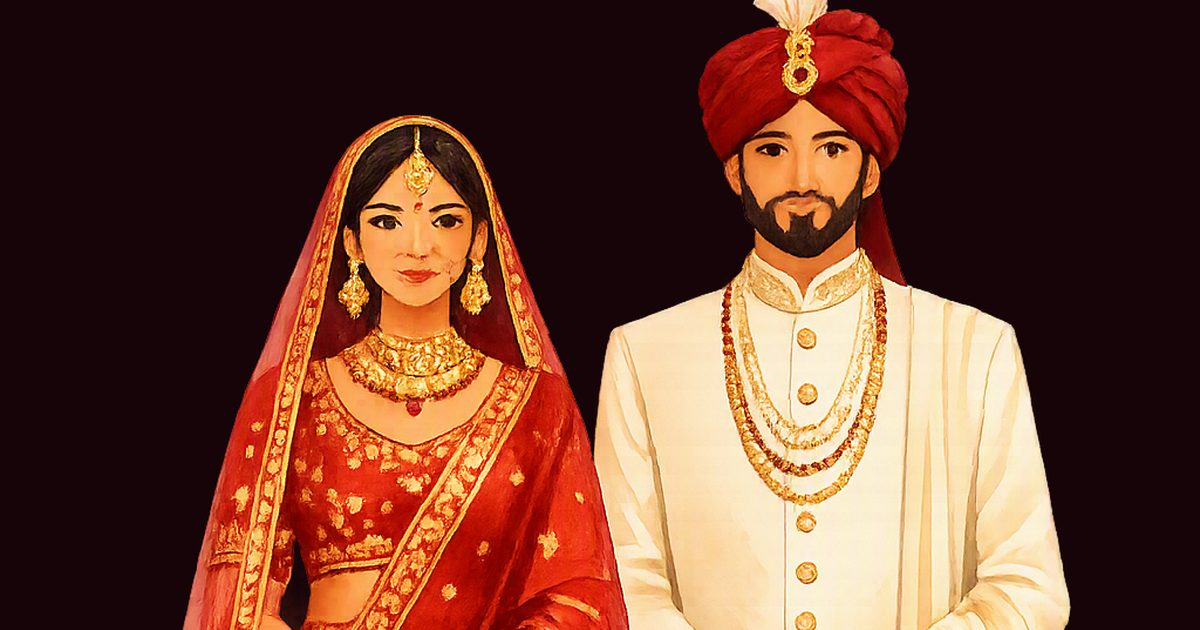
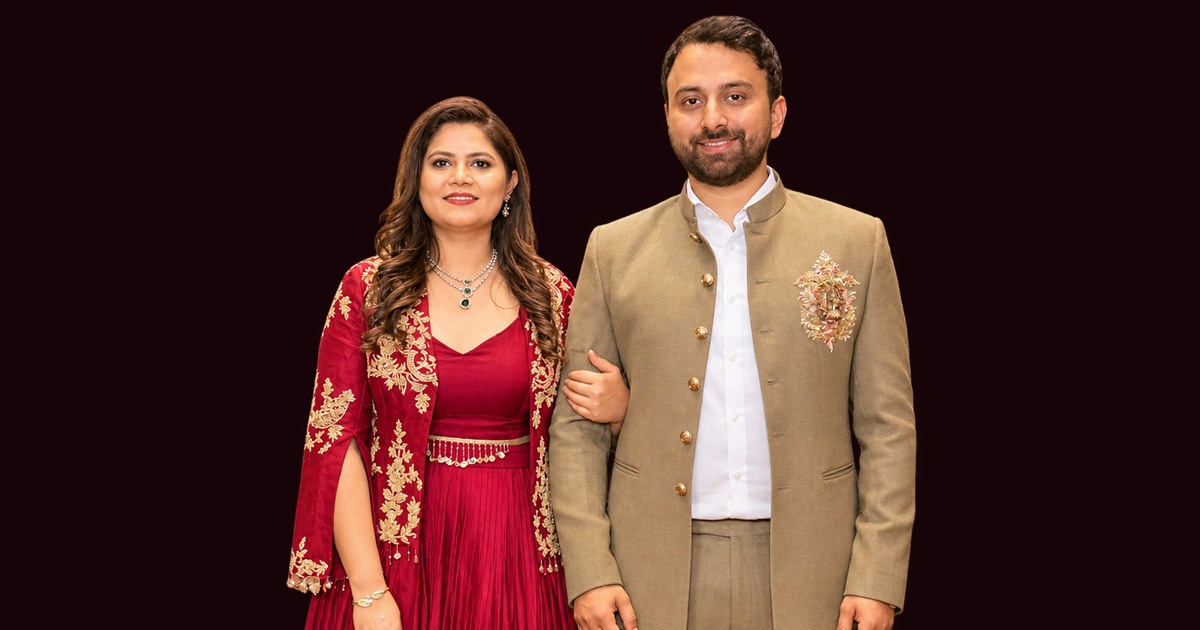
Update Madhav & Madhu real couple OG thumbnail and Nitin & Suman Nanhera/Delhi details

diff --git a/invitations/nitin-weds-suman/index.html b/invitations/nitin-weds-suman/index.html
@@ -242,7 +242,7 @@
               Nitin<span class="script mx-2 block text-2xl text-primary">&amp;</span>Suman
             </h1>
             <p class="mt-4 text-[0.66rem] uppercase tracking-airy text-muted-foreground animate-ink" style="animation-delay:1s">Saturday, 5 December 2026</p>
-            <p class="mt-2 text-[0.66rem] uppercase tracking-airy text-muted-foreground animate-ink" style="animation-delay:1.15s">Rangia Mandi · Ambala Cantt</p>
+            <p class="mt-2 text-[0.66rem] uppercase tracking-airy text-muted-foreground animate-ink" style="animation-delay:1.15s">Delhi</p>
           </div>
         </header>
 
@@ -387,7 +387,7 @@
                   </div>
                 </div>
                 <div class="mt-4 flex items-center justify-between border-t border-primary/15 pt-3">
-                  <span class="text-xs text-foreground/80">#436/7, Nai Abadi, Rangia Mandi</span>
+                  <span class="text-xs text-foreground/80">#436/7, Nai Abadi, Nanhera</span>
                   <span class="text-xs font-semibold text-primary bg-primary/10 px-2.5 py-0.5 rounded-full">7:00 PM</span>
                 </div>
                 <p class="mt-2 text-xs italic text-muted-foreground">An enchanting evening of dholak, folk songs and joyous dances.</p>
@@ -407,7 +407,7 @@
                   </div>
                 </div>
                 <div class="mt-4 flex items-center justify-between border-t border-primary/15 pt-3">
-                  <span class="text-xs text-foreground/80">#436/7, Nai Abadi, Rangia Mandi</span>
+                  <span class="text-xs text-foreground/80">#436/7, Nai Abadi, Nanhera</span>
                   <span class="text-xs font-semibold text-primary bg-primary/10 px-2.5 py-0.5 rounded-full">10:00 AM</span>
                 </div>
                 <p class="mt-2 text-xs italic text-muted-foreground">Sacred morning Vedic rituals and traditional blessings.</p>
@@ -427,7 +427,7 @@
                   </div>
                 </div>
                 <div class="mt-4 flex items-center justify-between border-t border-primary/15 pt-3">
-                  <span class="text-xs text-foreground/80">#436/7, Nai Abadi, Rangia Mandi</span>
+                  <span class="text-xs text-foreground/80">#436/7, Nai Abadi, Nanhera</span>
                   <span class="text-xs font-semibold text-primary bg-primary/10 px-2.5 py-0.5 rounded-full">7:00 PM</span>
                 </div>
                 <p class="mt-2 text-xs italic text-muted-foreground">Ceremonial tying of the groom's sehra with family pride and love.</p>
@@ -467,7 +467,7 @@
                   </div>
                 </div>
                 <div class="mt-4 flex items-center justify-between border-t border-primary/15 pt-3">
-                  <span class="text-xs text-foreground/80">#436/7, Nai Abadi, Rangia Mandi</span>
+                  <span class="text-xs text-foreground/80">#436/7, Nai Abadi, Nanhera</span>
                   <span class="text-xs font-bold text-primary bg-primary/15 px-3 py-1 rounded-full">8:00 PM</span>
                 </div>
                 <p class="mt-2 text-xs italic text-muted-foreground">A lavish dinner feast welcoming the newlywed couple.</p>
@@ -529,11 +529,11 @@
             <img src="assets/venue-map-final.png" alt="Venue Map" loading="lazy" width="1448" height="1086" class="w-full h-auto object-cover"/>
             <div class="p-5 text-center">
               <h3 class="font-display text-2xl font-medium">#436/7, Nai Abadi</h3>
-              <p class="mt-1 text-sm text-foreground/85 font-medium">Rangia Mandi, Ambala Cantt, Haryana</p>
+              <p class="mt-1 text-sm text-foreground/85 font-medium">Nanhera, Ambala Cantt, Haryana</p>
               <p class="mt-2 text-xs text-muted-foreground">Residence of Smt. Sunita Devi &amp; Sh. Rakesh Kumar</p>
               
               <div class="mt-4 flex flex-col sm:flex-row gap-2 justify-center">
-                <a href="https://www.google.com/maps/search/?api=1&amp;query=Nai+Abadi+Rangia+Mandi+Ambala+Cantt" target="_blank" rel="noreferrer" class="press flex min-h-[46px] items-center justify-center rounded-sm bg-primary px-5 text-[0.68rem] uppercase tracking-airy text-primary-foreground font-medium">
+                <a href="https://www.google.com/maps/search/?api=1&amp;query=Nai+Abadi+Nanhera+Ambala+Cantt" target="_blank" rel="noreferrer" class="press flex min-h-[46px] items-center justify-center rounded-sm bg-primary px-5 text-[0.68rem] uppercase tracking-airy text-primary-foreground font-medium">
                   Open in Google Maps
                 </a>
                 <a href="tel:9996172626" class="press flex min-h-[46px] items-center justify-center rounded-sm border border-primary/40 bg-secondary px-4 text-[0.68rem] uppercase tracking-airy text-foreground font-medium">
@@ -567,7 +567,7 @@
                 Smt. Sunita Devi &amp; Sh. Rakesh Kumar
               </h3>
               <p class="mt-1 text-xs text-muted-foreground">
-                #436/7, Nai Abadi, Rangia Mandi, Ambala Cantt.
+                #436/7, Nai Abadi, Nanhera, Ambala Cantt.
               </p>
               <div class="mt-3 flex flex-wrap justify-center gap-2 text-xs">
                 <a href="tel:9996172626" class="text-primary hover:underline font-medium">M: 9996172626</a>
@@ -642,7 +642,7 @@
             </div>
             <div class="pl-5">
               <p class="text-xs text-muted-foreground">The place</p>
-              <p class="mt-1 font-display text-lg">Ambala Cantt</p>
+              <p class="mt-1 font-display text-lg">Delhi</p>
             </div>
           </div>
 
@@ -670,11 +670,11 @@
         dateLabel: "Saturday, 5 December 2026",
         weddingISO: "2026-12-05T13:00:00+05:30",
         events: [
-          { name: "Ladies Sangeet", glyph: "✧", date: "3 Dec 2026", time: "7:00 PM", iso: "2026-12-03T19:00:00+05:30", venue: "#436/7, Nai Abadi, Rangia Mandi, Ambala Cantt", note: "An evening filled with music, rhythm, and joyous celebration." },
-          { name: "Mandha", glyph: "❋", date: "4 Dec 2026", time: "10:00 AM", iso: "2026-12-04T10:00:00+05:30", venue: "#436/7, Nai Abadi, Rangia Mandi, Ambala Cantt", note: "Traditional auspicious morning rituals and blessings." },
-          { name: "Sehra Bandi", glyph: "👑", date: "4 Dec 2026", time: "7:00 PM", iso: "2026-12-04T19:00:00+05:30", venue: "#436/7, Nai Abadi, Rangia Mandi, Ambala Cantt", note: "Ceremonial tying of the groom's sehra with family pride." },
-          { name: "Departure of Barat", glyph: "☀", date: "5 Dec 2026", time: "1:00 PM", iso: "2026-12-05T13:00:00+05:30", venue: "Rangia Mandi, Ambala Cantt to Delhi", note: "Grand wedding procession departing to receive the bride." },
-          { name: "Reception (Dinner)", glyph: "❖", date: "6 Dec 2026", time: "8:00 PM", iso: "2026-12-06T20:00:00+05:30", venue: "#436/7, Nai Abadi, Rangia Mandi, Ambala Cantt", note: "Grand wedding reception dinner celebrating the newlyweds." }
+          { name: "Ladies Sangeet", glyph: "✧", date: "3 Dec 2026", time: "7:00 PM", iso: "2026-12-03T19:00:00+05:30", venue: "#436/7, Nai Abadi, Nanhera, Ambala Cantt", note: "An evening filled with music, rhythm, and joyous celebration." },
+          { name: "Mandha", glyph: "❋", date: "4 Dec 2026", time: "10:00 AM", iso: "2026-12-04T10:00:00+05:30", venue: "#436/7, Nai Abadi, Nanhera, Ambala Cantt", note: "Traditional auspicious morning rituals and blessings." },
+          { name: "Sehra Bandi", glyph: "👑", date: "4 Dec 2026", time: "7:00 PM", iso: "2026-12-04T19:00:00+05:30", venue: "#436/7, Nai Abadi, Nanhera, Ambala Cantt", note: "Ceremonial tying of the groom's sehra with family pride." },
+          { name: "Departure of Barat", glyph: "☀", date: "5 Dec 2026", time: "1:00 PM", iso: "2026-12-05T13:00:00+05:30", venue: "Nanhera, Ambala Cantt to Delhi", note: "Grand wedding procession departing to receive the bride." },
+          { name: "Reception (Dinner)", glyph: "❖", date: "6 Dec 2026", time: "8:00 PM", iso: "2026-12-06T20:00:00+05:30", venue: "#436/7, Nai Abadi, Nanhera, Ambala Cantt", note: "Grand wedding reception dinner celebrating the newlyweds." }
         ]
       };
 

diff --git a/invitations/madhav-weds-madhu/index.html b/invitations/madhav-weds-madhu/index.html
@@ -20,16 +20,19 @@
   <meta property="og:title" content="Dr. Madhav ❤ Dr. Madhu — Wedding Invitation" />
   <meta property="og:description"
     content="Together with their families, Dr. Madhav & Dr. Madhu invite you to celebrate their wedding — Thursday, 26th November 2026, Patna." />
-  <meta property="og:image" content="https://invcraftmedia.com/madhav-weds-madhu/assets/og-image.jpg" />
+  <meta property="og:image" content="https://invcraftmedia.com/madhav-weds-madhu/assets/couple-og.jpg?v=2" />
+  <meta property="og:image:secure_url" content="https://invcraftmedia.com/madhav-weds-madhu/assets/couple-og.jpg?v=2" />
+  <meta property="og:image:type" content="image/jpeg" />
   <meta property="og:image:width" content="1200" />
   <meta property="og:image:height" content="630" />
+  <meta property="og:image:alt" content="Dr. Madhav &amp; Dr. Madhu Wedding" />
 
   <!-- Twitter Card -->
   <meta name="twitter:card" content="summary_large_image" />
   <meta name="twitter:title" content="Dr. Madhav ❤ Dr. Madhu — Wedding Invitation" />
   <meta name="twitter:description"
     content="Join us for the wedding celebrations — Thursday, 26th November 2026, Patna." />
-  <meta name="twitter:image" content="https://invcraftmedia.com/madhav-weds-madhu/assets/og-image.jpg" />
+  <meta name="twitter:image" content="https://invcraftmedia.com/madhav-weds-madhu/assets/couple-og.jpg?v=2" />
 
   <!-- Global Viewport, Overflow & Hero Typography Guards -->
   <style>

diff --git a/invitations/madhu-weds-madhav/index.html b/invitations/madhu-weds-madhav/index.html
@@ -20,16 +20,19 @@
   <meta property="og:title" content="Dr. Madhu ❤ Dr. Madhav — Wedding Invitation" />
   <meta property="og:description"
     content="Together with their families, Dr. Madhu & Dr. Madhav invite you to celebrate their wedding — Thursday, 26th November 2026, Patna." />
-  <meta property="og:image" content="https://invcraftmedia.com/madhu-weds-madhav/assets/og-image.jpg" />
+  <meta property="og:image" content="https://invcraftmedia.com/madhu-weds-madhav/assets/couple-og.jpg?v=2" />
+  <meta property="og:image:secure_url" content="https://invcraftmedia.com/madhu-weds-madhav/assets/couple-og.jpg?v=2" />
+  <meta property="og:image:type" content="image/jpeg" />
   <meta property="og:image:width" content="1200" />
   <meta property="og:image:height" content="630" />
+  <meta property="og:image:alt" content="Dr. Madhu &amp; Dr. Madhav Wedding" />
 
   <!-- Twitter Card -->
   <meta name="twitter:card" content="summary_large_image" />
   <meta name="twitter:title" content="Dr. Madhu ❤ Dr. Madhav — Wedding Invitation" />
   <meta name="twitter:description"
     content="Join us for the wedding celebrations — Thursday, 26th November 2026, Patna." />
-  <meta name="twitter:image" content="https://invcraftmedia.com/madhu-weds-madhav/assets/og-image.jpg" />
+  <meta name="twitter:image" content="https://invcraftmedia.com/madhu-weds-madhav/assets/couple-og.jpg?v=2" />
 
   <!-- Global Viewport, Overflow & Hero Typography Guards -->
   <style>
